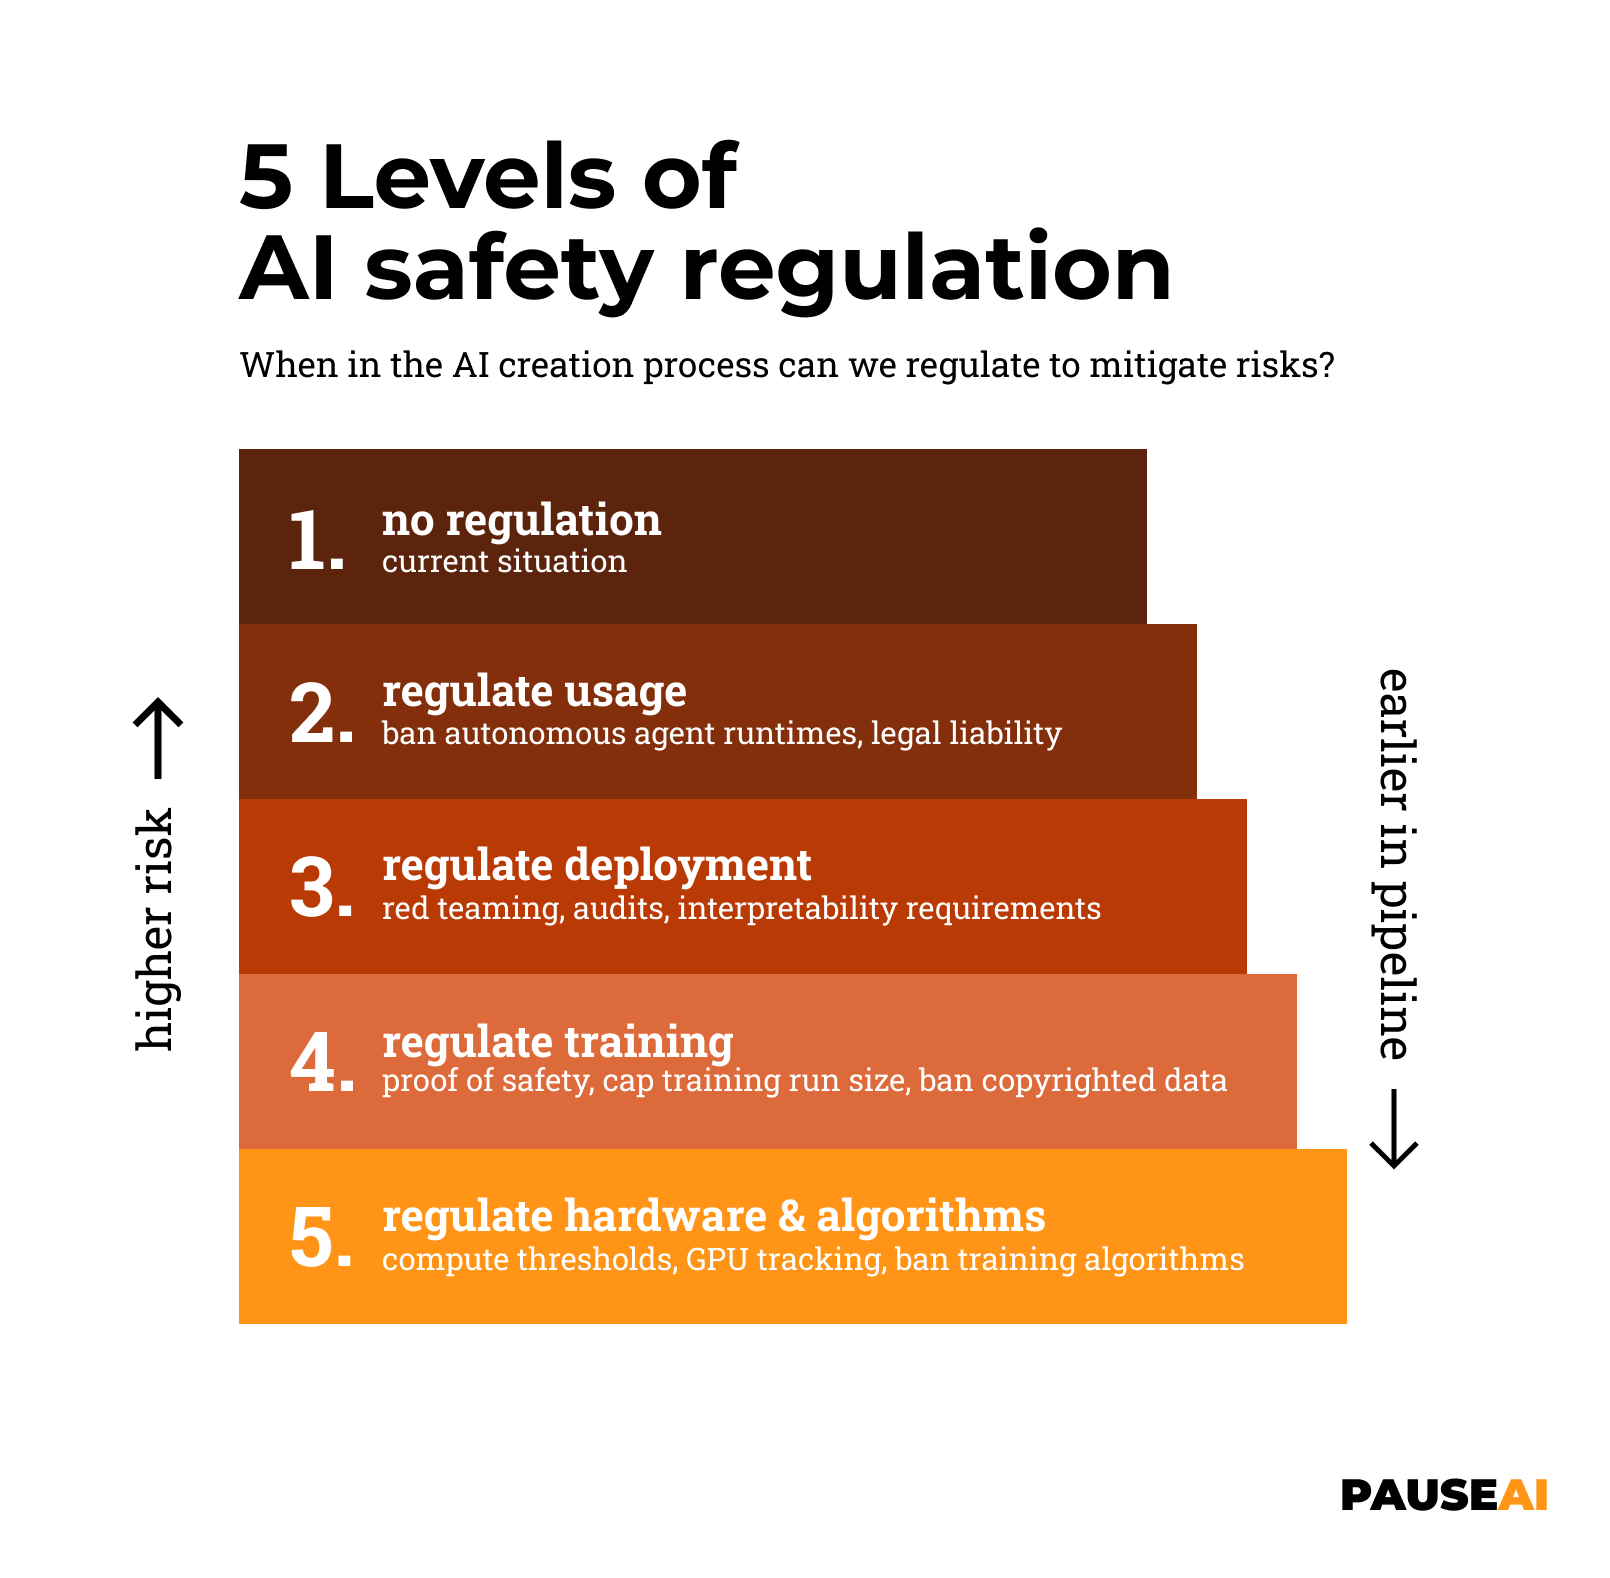
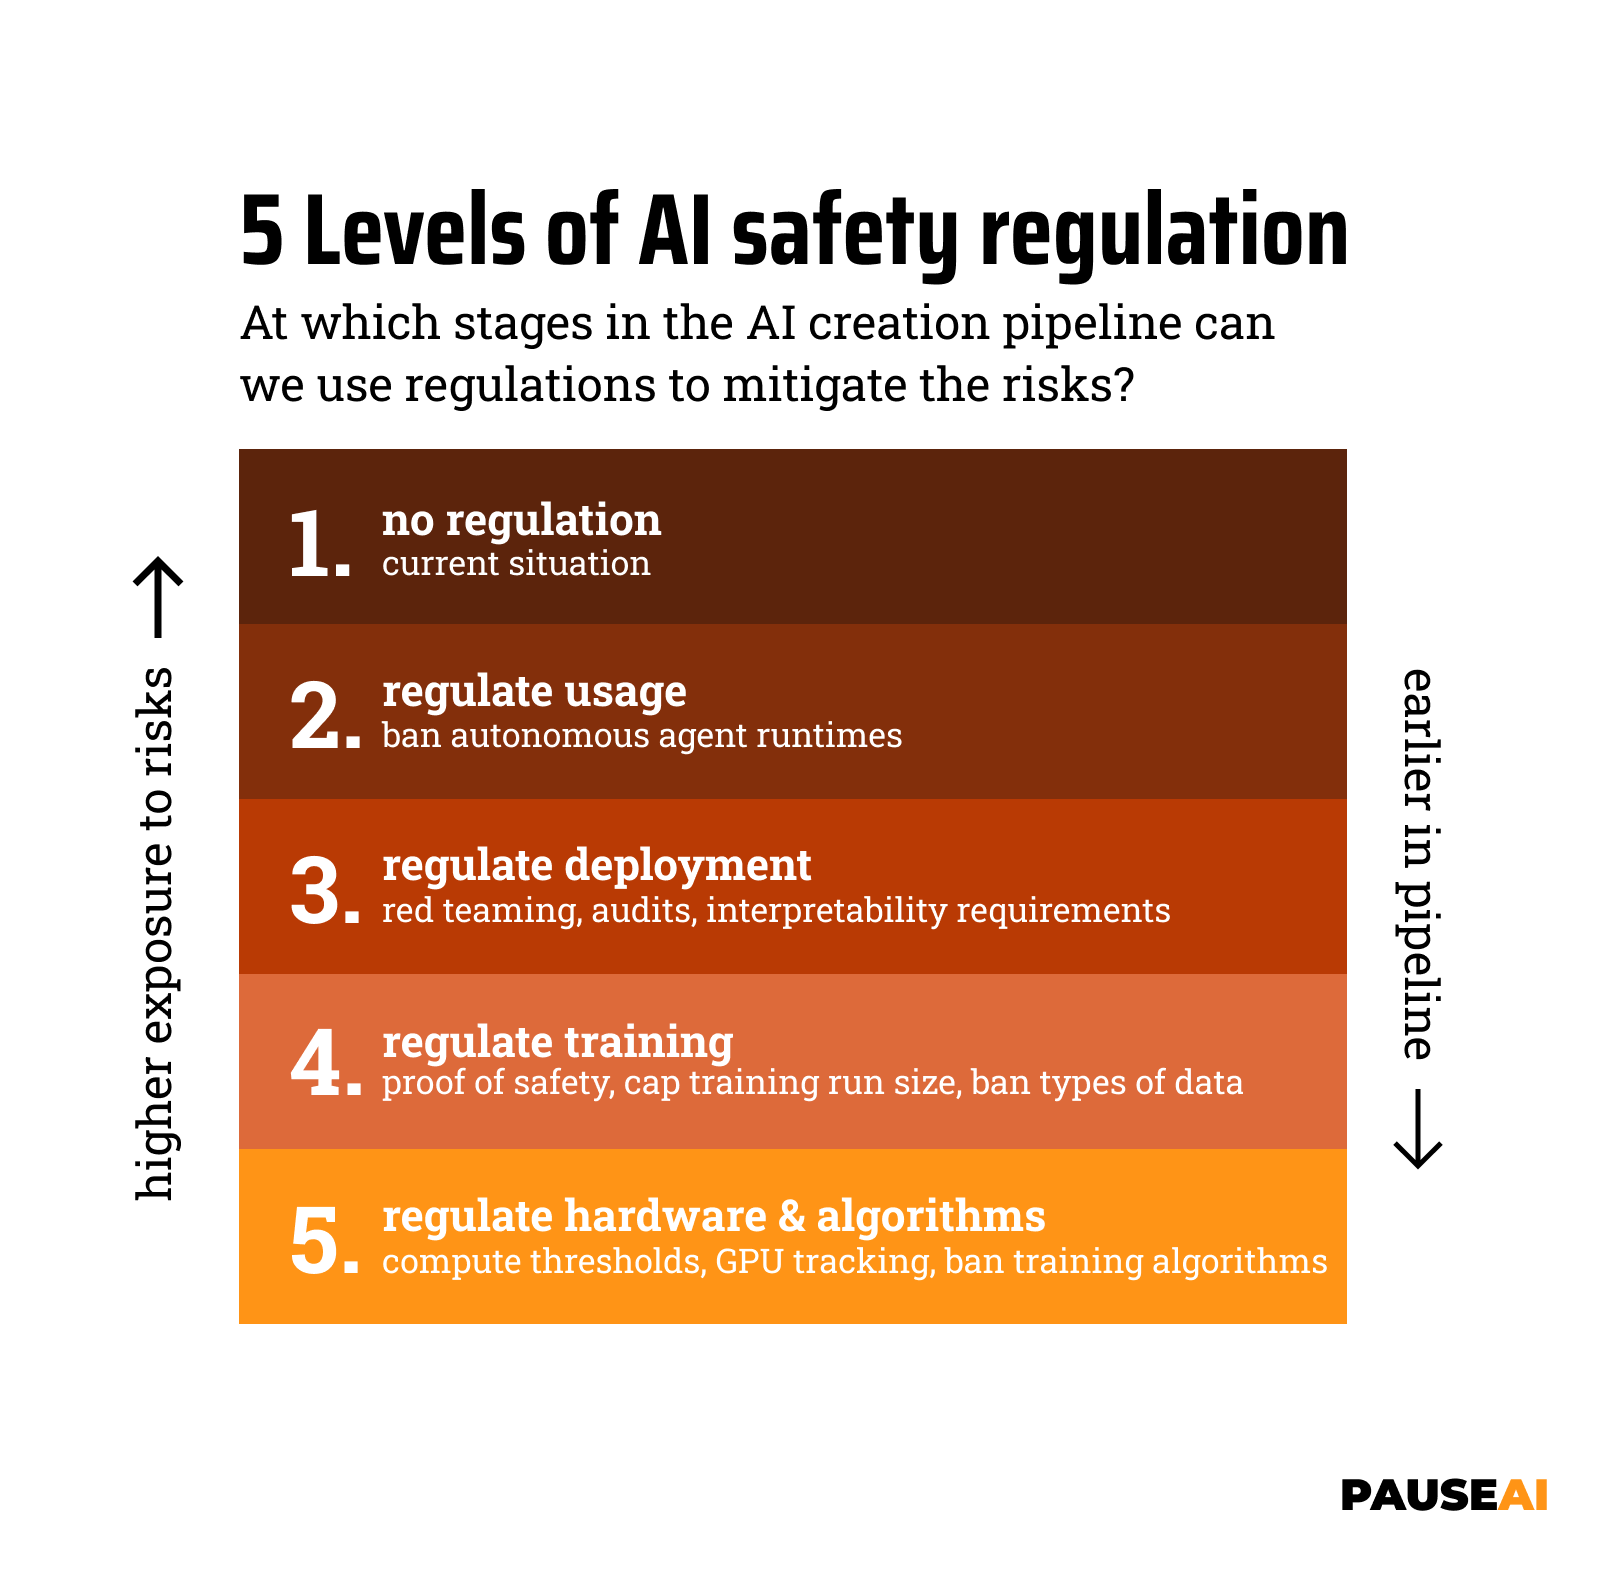
Update img

diff --git a/src/posts/5-levels-of-ai-regulation.md b/src/posts/5-levels-of-ai-regulation.md
@@ -1,13 +1,13 @@
 ---
 title: 5 Levels of AI safety regulation
-description: A framework for thinking about how dangerous AI can be regulated
+description: A framework for thinking about how to mitigate the risks from powerful AI systems
 image: /5levels.png
 ---
 
 As AI capabilities increase, the [risks](/risks) these systems pose to humanity increase as well.
 Many scientists have already warned about the [risk of human extinction](/xrisk).
 
-In this article, we'll look at our 5-levels framework for thinking about how dangerous AI can be regulated.
+In this article, we'll look at our 5-levels framework for thinking about how AI safety can be regulated.
 
 ## AI pipeline as a framework for safety governance
 
@@ -35,8 +35,8 @@ This offers no protection against any of the risks posed by AI.
 
 Examples:
 
-- **Banning autonomous agent runtimes** (like AutoGPT)
-- **Banning dangerous instructions**
+- **Ban autonomous agent runtimes** (like AutoGPT)
+- **Ban dangerous instructions**
 
 These measures are aimed to prevent users from doing dangerous or harmful actions with AI models.
 At this level, the responsibility lies with the users of the models, not the creators.
@@ -45,8 +45,10 @@ This only provides a very low level of protection against AI dangers.
 
 ## Level 3: Regulate deployment
 
+Examples:
+
 - **Red-teaming requirements**. This means that before an AI model is deployed, it is tested by a red team to see if it can be hacked (jailbreaked) or abused.
-- **Disallowing deployment and open-sourcing** of models with [dangerous capabilities](/dangerous-capabilities).
+- **Disallow deployment and open-sourcing** of models with [dangerous capabilities](/dangerous-capabilities).
 
 When regulating deployments, we are preventing dangerous models from being available.
 This means the responsibility lies with the creators of the models.
@@ -56,10 +58,13 @@ However, we're still allowing dangerous training runs to happen, so accidents at
 
 ## Level 4: Regulate training runs
 
-- **Requiring proof of safety** before granting permission to train a certain model. This may include formal proof of alignment. [This post details some of the current safety problems](https://www.lesswrong.com/posts/mnoc3cKY3gXMrTybs/a-list-of-core-ai-safety-problems-and-how-i-hope-to-solve).
+Examples:
+
+- **Require proof of safety** before granting permission to train a certain model. This may include formal proof of alignment. [This post details some of the current safety problems](https://www.lesswrong.com/posts/mnoc3cKY3gXMrTybs/a-list-of-core-ai-safety-problems-and-how-i-hope-to-solve).
 - Setting a **scale ceiling for training new models** (e.g. a maximum count of flops used)
-- **Requiring a license** to train a certain model.
-- **Ban training on certain types of data**. Some types of training data can lead to [dangerous capabilities](/dangerous-capabilities), such as hacking or the creation of bio weapons. We could ban training on data that contains this type of knowledge.
+- **Require a license** to train AI models (above a certain size / with certain capabilities).
+- **Ban training on dangerous types of data**. Some types of training data can lead to [dangerous capabilities](/dangerous-capabilities), such as hacking or the creation of bio weapons. We could ban training on data that contains this type of knowledge.
+- **Ban training on copyrighted data**. This does not directly target unsafe data, but it does limit the amount of data that can be used, which means it buys us time to figure out to build safe AI models.
 
 When we regulate training runs, we prevent dangerous models from being created in the first place.
 This will prevent accidents at AI labs that comply with the regulations.
@@ -68,8 +73,10 @@ However, we're still allowing the distribution of hardware and algorithms that c
 
 ## Level 5: Regulate hardware & algorithms
 
-- **Limiting distribution of training hardware**. Specialized hardware for training AI models is rapidly becoming the most important product of chip manufacturers. The supply chain for this hardware is very centralized, and the hardware is very expensive. This means that it's [relatively easy to regulate](https://arxiv.org/abs/2303.11341) the distribution of this hardware.
-- **Disallowing the publication of novel training architectures**. New AI training architectures can lead to dramatic increases in capabilities. The Transformer model, for example, enabled virtually all recent progress in AI. We could limit the publication of such architectures to prevent sudden capability jumps.
+Examples:
+
+- **Limit distribution of training hardware**. Specialized hardware for training AI models is rapidly becoming the most important product of chip manufacturers. The supply chain for this hardware is very centralized, and the hardware is very expensive. This means that it's [relatively easy to regulate](https://arxiv.org/abs/2303.11341) the distribution of this hardware.
+- **Disallow the publication of novel training architectures**. New AI training architectures can lead to dramatic increases in capabilities. The Transformer model, for example, enabled virtually all recent progress in AI. We could limit the publication of such architectures to prevent sudden capability jumps.
 
 When we also regulate hardware and algorithms, we're making it not just illegal, but also very difficult to train dangerous models.
 This gives us the best protection against the risks from AI.
